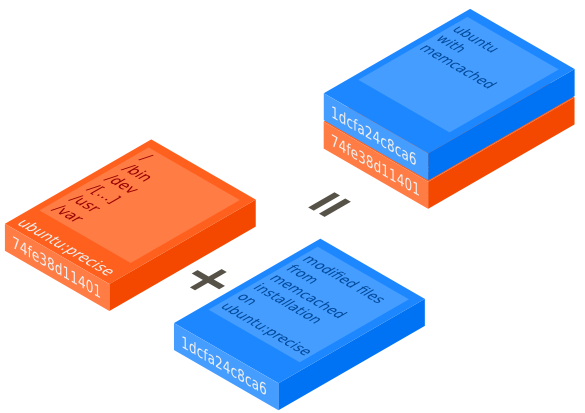
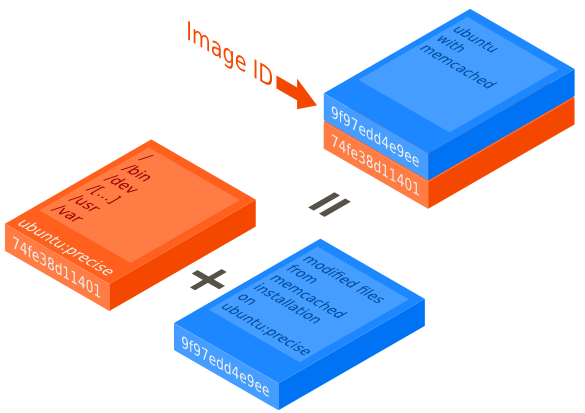
Site updated at 2014-05-18 14:19:13 UTC

Changed region(s): [[0.3077, 0.0581, 0.5538, 0.2615], [0.5538, 0.2615, 0.7385, 0.4068], [0.3077, 0.8136, 0.4615, 0.9588]]

diff --git a/blog/2014/05/14/deeper-look-dockerfile/index.html b/blog/2014/05/14/deeper-look-dockerfile/index.html
@@ -142,51 +142,105 @@ I will introduce today how to create containers interactively and through Docker
 
 <p><img class="center" src="/images/docker/docker-image-creation-00.png"></p>
 
-<p>We will then interact with it by launching a job from this filesystem.</p>
+<p>You can have information about downloaded images with the command <code>docker images</code>:</p>
 
 <figure class='code'><div class="highlight"><table><tr><td class="gutter"><pre class="line-numbers"><span class='line-number'>1</span>
 <span class='line-number'>2</span>
 <span class='line-number'>3</span>
-</pre></td><td class='code'><pre><code class='console'><span class='line'><span class="go">~$ sudo docker run ubuntu apt-get install -y memcached</span>
-</span><span class='line'><span class="go">[...]</span>
-</span><span class='line'><span class="go">[=&gt; container id is 9fb69e798e67]</span>
+</pre></td><td class='code'><pre><code class='console'><span class='line'><span class="gp">$</span> sudo docker images
+</span><span class='line'><span class="go">REPOSITORY           TAG                 IMAGE ID            CREATED             VIRTUAL SIZE</span>
+</span><span class='line'><span class="go">ubuntu               precise             74fe38d11401        3 weeks ago         209.6 MB</span>
 </span></code></pre></td></tr></table></div></figure>
 
 
-<p>When executing this command, we create a container. This container will create a writable layer for its filesystem, and base it upon the image <em>ubuntu</em>. It will then launch the process <code>apt-get</code> with the argument <code>install -y memcached</code></p>
+<p>We will then interact with it by launching a job from this filesystem.</p>
+
+<figure class='code'><div class="highlight"><table><tr><td class="gutter"><pre class="line-numbers"><span class='line-number'>1</span>
+<span class='line-number'>2</span>
+</pre></td><td class='code'><pre><code class='console'><span class='line'><span class="go">~$ sudo docker run ubuntu:precise apt-get install -y memcached</span>
+</span><span class='line'><span class="go">[...]</span>
+</span></code></pre></td></tr></table></div></figure>
+
+
+<p>When executing this command, we create a container. This container will create a writable layer for its filesystem, and base it upon the image <em>ubuntu:precise</em>. It will then launch the process <code>apt-get</code> with the argument <code>install -y memcached</code></p>
 
 <p><img class="center" src="/images/docker/docker-image-creation-01.png"></p>
 
-<p>I didn&rsquo;t affect any name to the container, but the output gave me its id. If I want to save the current state of the filesystem, I can commit it thanks to the id of the container:</p>
+<p>I didn&rsquo;t affect any name to the container in the previous command. To find the id of a running container, you can type the command <code>docker ps</code>:</p>
 
 <figure class='code'><div class="highlight"><table><tr><td class="gutter"><pre class="line-numbers"><span class='line-number'>1</span>
-</pre></td><td class='code'><pre><code class='console'><span class='line'><span class="go">~$ sudo docker commit 9fb69e798e67</span>
+<span class='line-number'>2</span>
+</pre></td><td class='code'><pre><code class='console'><span class='line'><span class="go">~$ sudo docker ps</span>
+</span><span class='line'><span class="go">CONTAINER ID        IMAGE               COMMAND                CREATED              STATUS              PORTS               NAMES</span>
 </span></code></pre></td></tr></table></div></figure>
 
 
-<p><img class="center" src="/images/docker/docker-image-creation-02.png"></p>
+<p>Here, I don&rsquo;t have any running container. Indeed, the status of the container is related to the status of its running job. As a consequence, once <code>apt-get install -y memcached</code> returned, the container is stopped.</p>
 
-<p>And the container will automatically create another layer upon your newly created image. Note that you are only saving <strong>the filesystem state</strong>. The <strong>memory state won&rsquo;t be saved</strong> in the image.</p>
+<p>To display all containers currently on your machine, you can type <code>docker ps -a</code>:</p>
+
+<figure class='code'><div class="highlight"><table><tr><td class="gutter"><pre class="line-numbers"><span class='line-number'>1</span>
+<span class='line-number'>2</span>
+<span class='line-number'>3</span>
+</pre></td><td class='code'><pre><code class='console'><span class='line'><span class="go">~$ sudo docker ps -a</span>
+</span><span class='line'><span class="go">CONTAINER ID        IMAGE               COMMAND                CREATED              STATUS              PORTS               NAMES</span>
+</span><span class='line'><span class="go">cab24787db86        ubuntu:12.04        apt-get install -y m   About a minute ago   Exit 0                                  clever_curie  </span>
+</span></code></pre></td></tr></table></div></figure>
+
+
+<p>I can now commit the content of the filesystem of this container into a new image:</p>
+
+<figure class='code'><div class="highlight"><table><tr><td class="gutter"><pre class="line-numbers"><span class='line-number'>1</span>
+<span class='line-number'>2</span>
+</pre></td><td class='code'><pre><code class='console'><span class='line'><span class="go">~$ sudo docker commit cab24</span>
+</span><span class='line'><span class="go">9f97edd4e9ee794eca4c40db3122b5c635f0e2f92c3b0e62deaac9e28af1a868</span>
+</span></code></pre></td></tr></table></div></figure>
+
+
+<p>You will note that typing just the first digits of the id is enough to find it, as in git.</p>
+
+<p>You image is now visible when you display your docker images:</p>
+
+<figure class='code'><div class="highlight"><table><tr><td class="gutter"><pre class="line-numbers"><span class='line-number'>1</span>
+<span class='line-number'>2</span>
+<span class='line-number'>3</span>
+<span class='line-number'>4</span>
+</pre></td><td class='code'><pre><code class='console'><span class='line'><span class="go">~$ sudo docker images</span>
+</span><span class='line'><span class="go">REPOSITORY           TAG                 IMAGE ID            CREATED             VIRTUAL SIZE</span>
+</span><span class='line'><span class="go">&lt;none&gt;               &lt;none&gt;              9f97edd4e9ee        3 minutes ago       246.2 MB</span>
+</span><span class='line'><span class="go">ubuntu               precise             74fe38d11401        3 weeks ago         209.6 MB</span>
+</span></code></pre></td></tr></table></div></figure>
+
+
+<p>You can run a new container based on this new image:</p>
+
+<figure class='code'><div class="highlight"><table><tr><td class="gutter"><pre class="line-numbers"><span class='line-number'>1</span>
+<span class='line-number'>2</span>
+</pre></td><td class='code'><pre><code class='console'><span class='line'><span class="go">~$ sudo docker run --name &quot;bash-on-mysql-image&quot; -i -t 9f97ed /bin/bash</span>
+</span><span class='line'><span class="gp">root@1ddbe7cefb87:/#</span>
+</span></code></pre></td></tr></table></div></figure>
+
+
+<p>You will now run a new container, with the process <code>/bin/bash</code>, <code>-i</code> and <code>-t</code> options for respectively running it interactively and attaching a pseudo  tty, <code>--name</code> to name our container, that will put a writable layer upon our image 9f97edd, which is itself based on our images ubuntu:precise.</p>
 
 <p><img class="center" src="/images/docker/docker-image-creation-03.png"></p>
 
-<p>Note also that the status of your container is depending on the status of the job your run. Once the job finished, the container is stopped.</p>
+<p>You may have understand now that referencing the images by their id won&rsquo;t be handy, That&rsquo;s why you will prefer to organize your images under</p>
 
-<p>If you want to organize your images, it is better to commit them under your local repository.</p>
+<p>If you want to organize your images, it is better to commit them under your local repository.
+You could have run this command to commit from the container:</p>
 
 <figure class='code'><div class="highlight"><table><tr><td class="gutter"><pre class="line-numbers"><span class='line-number'>1</span>
-</pre></td><td class='code'><pre><code class='console'><span class='line'><span class="go">~$ sudo docker commit 9fb69e798e67 yabage/ubuntu-memcached</span>
+</pre></td><td class='code'><pre><code class='console'><span class='line'><span class="go">~$ sudo docker commit 9f97e yabage/ubuntu-memcached</span>
 </span></code></pre></td></tr></table></div></figure>
 
 
-<p>Finally, you can of course run a new container based on your newly created image, and commit other modification upon it.</p>
+<p>Or you can tag the current image directly</p>
 
 <figure class='code'><div class="highlight"><table><tr><td class="gutter"><pre class="line-numbers"><span class='line-number'>1</span>
-</pre></td><td class='code'><pre><code class='console'><span class='line'><span class="go">~$ sudo docker run -i -t yabage/ubuntu-memcached /bin/bash</span>
+</pre></td><td class='code'><pre><code class='console'><span class='line'><span class="go">~$ sudo docker tag 9f97e yabage/ubuntu-memcached</span>
 </span></code></pre></td></tr></table></div></figure>
 
-
-<p><img class="center" src="/images/docker/docker-image-creation-04.png"></p>
 
 <h2>The Dockerfile</h2>
 
